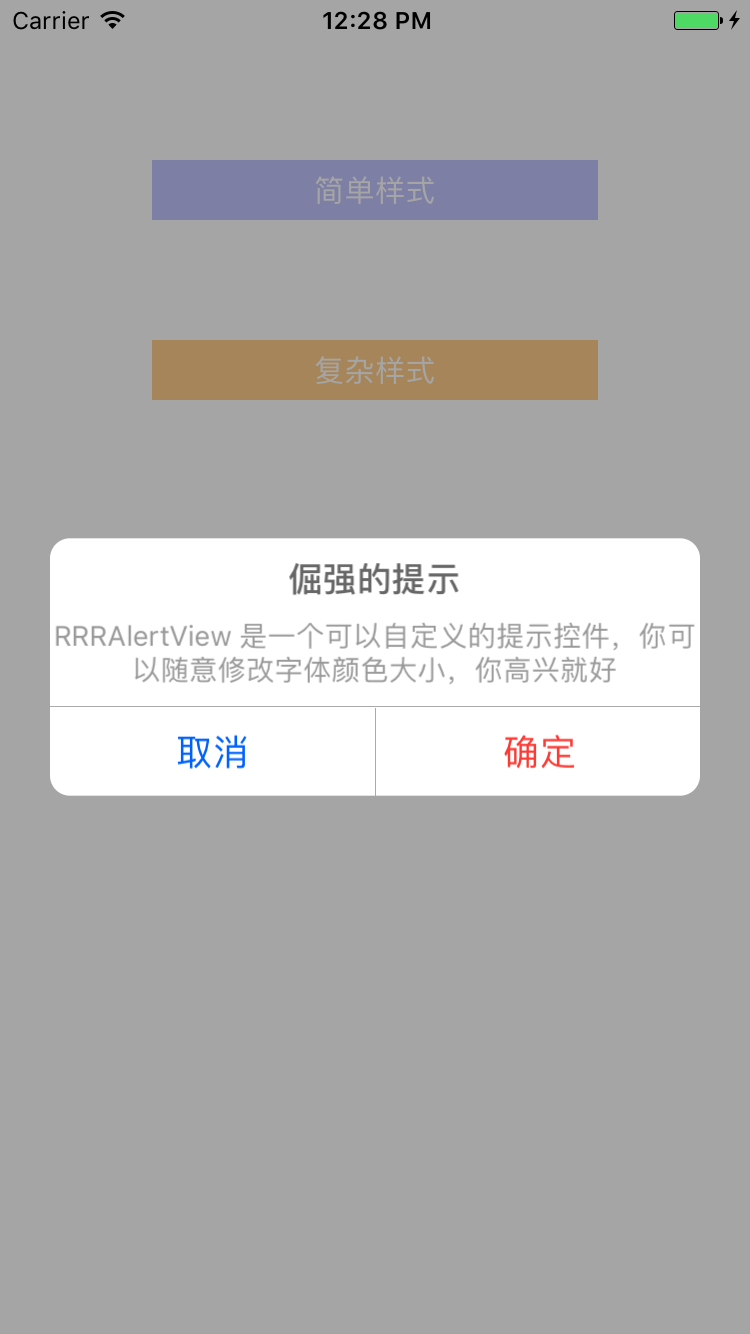
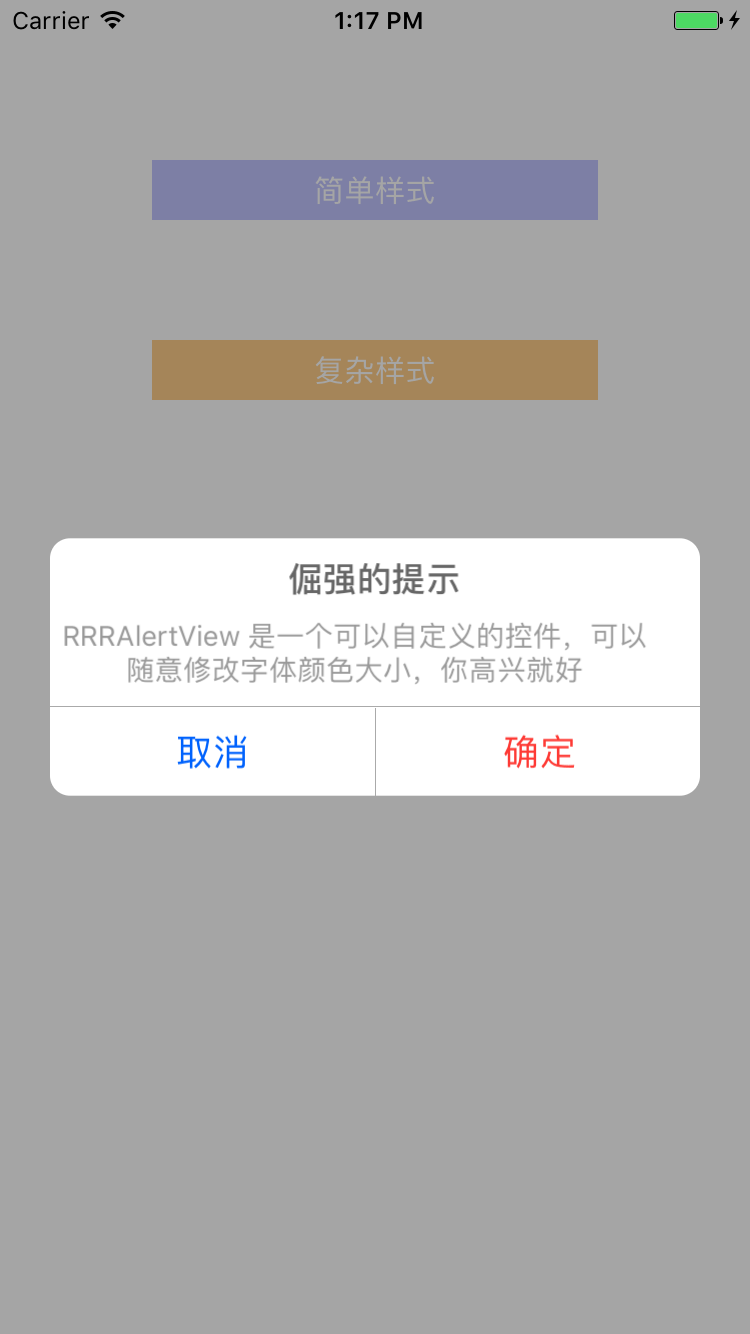
no message

Changed region(s): [[0.0613, 0.461, 0.92, 0.5225], [0.4293, 0.0, 0.5827, 0.0307]]

diff --git a/RRRAlertViewDemo/RRRAlertViewDemo/RRRAlertView/RRRAlertView.m b/RRRAlertViewDemo/RRRAlertViewDemo/RRRAlertView/RRRAlertView.m
@@ -128,6 +128,8 @@ enum tag {
 
     
     CGFloat spaceX = 0.0;
+    spaceX += controlsMargin;
+
     CGFloat spaceY = 0.0;
     spaceY += controlsMargin;
 
@@ -162,12 +164,13 @@ enum tag {
         messageLabel.textColor = _messageColor;
         messageLabel.text = _message;
         
-        CGSize size = [messageLabel boundingRectWithSize:CGSizeMake(SCREEN_WIDTH - margin*2, MAXFLOAT)];
+        CGSize size = [messageLabel boundingRectWithSize:CGSizeMake(SCREEN_WIDTH - margin*2 - controlsMargin*2, MAXFLOAT)];
         messageLabel.frame = CGRectMake(spaceX, spaceY, size.width, size.height);
         messageLabel.textAlignment = NSTextAlignmentCenter;
         messageLabel.numberOfLines = 0;
-        messageLabel.center = CGPointMake((SCREEN_WIDTH - margin*2)/2.0, messageLabel.center.y);
+        messageLabel.center = CGPointMake((SCREEN_WIDTH - margin*2 - controlsMargin*2)/2.0, messageLabel.center.y);
         
+        spaceX -= controlsMargin;
         spaceY += CGRectGetHeight(messageLabel.frame);
         spaceY += controlsMargin;
         height += size.height;
@@ -176,7 +179,7 @@ enum tag {
     
     
     // 横线
-    [self addHorizontalLineWithFram:CGRectMake(0,spaceY, SCREEN_WIDTH - margin*2, lineMargin)];
+    [self addHorizontalLineWithframe:CGRectMake(0,spaceY, SCREEN_WIDTH - margin*2, lineMargin)];
     
     height += 1;
     spaceY += 1;
@@ -186,10 +189,10 @@ enum tag {
     if (_cancelButtonTitle.length > 0 && _otherButtonTitles.count == 1) {
         
         // 取消 ===============================
-        CGRect fram = CGRectMake(spaceX, spaceY,  (SCREEN_WIDTH - margin*2)/2, btnHeight);
-        [self addCancelButtonWithFram:fram];
+        CGRect frame = CGRectMake(spaceX, spaceY,  (SCREEN_WIDTH - margin*2)/2, btnHeight);
+        [self addCancelButtonWithFrame:frame];
        
-        spaceX += fram.size.width;
+        spaceX += frame.size.width;
         
         // 竖线
         UIView *line = [[UIView alloc] init];
@@ -200,7 +203,7 @@ enum tag {
         spaceX += 1;
         
         // 确定 ===============================
-        [self addOtherButtonWithTag:beginTag title:_otherButtonTitles[0] fram:CGRectMake(spaceX, spaceY,  (SCREEN_WIDTH - margin*2)/2, btnHeight)];
+        [self addOtherButtonWithTag:beginTag title:_otherButtonTitles[0] frame:CGRectMake(spaceX, spaceY,  (SCREEN_WIDTH - margin*2)/2, btnHeight)];
         
         height += btnHeight;
 
@@ -210,16 +213,16 @@ enum tag {
     // 取消/确定
     if (_cancelButtonTitle.length == 0 || _otherButtonTitles.count == 0) {
         
-        CGRect fram = CGRectMake(0, spaceY,  (SCREEN_WIDTH - margin*2), btnHeight);
+        CGRect frame = CGRectMake(0, spaceY,  (SCREEN_WIDTH - margin*2), btnHeight);
 
         // 确定 ===============================
         if (_cancelButtonTitle.length == 0) {
-            [self addOtherButtonWithTag:beginTag title:_otherButtonTitles[0] fram:fram];
+            [self addOtherButtonWithTag:beginTag title:_otherButtonTitles[0] frame:frame];
         }
         
         // 取消 ===============================
         if (_otherButtonTitles.count == 0) {
-            [self addCancelButtonWithFram:fram];
+            [self addCancelButtonWithFrame:frame];
         }
         
         height += btnHeight;
@@ -236,21 +239,21 @@ enum tag {
             if (i > 0) {
                 spaceY += btnHeight;
                 // 横线
-                [self addHorizontalLineWithFram:CGRectMake(0,spaceY, SCREEN_WIDTH - margin*2, lineMargin)];
+                [self addHorizontalLineWithframe:CGRectMake(0,spaceY, SCREEN_WIDTH - margin*2, lineMargin)];
                 
             }
             height += btnHeight;
             
-            [self addOtherButtonWithTag:beginTag + i title:_otherButtonTitles[i] fram:CGRectMake(spaceX, spaceY,  (SCREEN_WIDTH - margin*2), btnHeight)];
+            [self addOtherButtonWithTag:beginTag + i title:_otherButtonTitles[i] frame:CGRectMake(spaceX, spaceY,  (SCREEN_WIDTH - margin*2), btnHeight)];
         }
         
         spaceY += btnHeight;
         
         // 横线
-        [self addHorizontalLineWithFram:CGRectMake(0,spaceY, SCREEN_WIDTH - margin*2, lineMargin)];
+        [self addHorizontalLineWithframe:CGRectMake(0,spaceY, SCREEN_WIDTH - margin*2, lineMargin)];
         
         // 取消 ===============================
-        [self addCancelButtonWithFram:CGRectMake(spaceX, spaceY,  (SCREEN_WIDTH - margin*2), btnHeight)];
+        [self addCancelButtonWithFrame:CGRectMake(spaceX, spaceY,  (SCREEN_WIDTH - margin*2), btnHeight)];
 
         height += btnHeight;
     }
@@ -265,11 +268,11 @@ enum tag {
             if (i > 0) {
                 spaceY += btnHeight;
                 // 横线
-                [self addHorizontalLineWithFram:CGRectMake(0,spaceY, SCREEN_WIDTH - margin*2, lineMargin)];
+                [self addHorizontalLineWithframe:CGRectMake(0,spaceY, SCREEN_WIDTH - margin*2, lineMargin)];
             }
             height += btnHeight;
             
-            [self addOtherButtonWithTag:beginTag + i title:_otherButtonTitles[i] fram:CGRectMake(spaceX, spaceY,  (SCREEN_WIDTH - margin*2), btnHeight)];
+            [self addOtherButtonWithTag:beginTag + i title:_otherButtonTitles[i] frame:CGRectMake(spaceX, spaceY,  (SCREEN_WIDTH - margin*2), btnHeight)];
         }
         
         height -= btnHeight;
@@ -282,10 +285,10 @@ enum tag {
 }
 
 #pragma mark - private methods
-- (void)addCancelButtonWithFram:(CGRect)fram
+- (void)addCancelButtonWithFrame:(CGRect)frame
 {
     // 取消 ===============================
-    UIButton *cancelButton = [[UIButton alloc] initWithFrame:fram];
+    UIButton *cancelButton = [[UIButton alloc] initWithFrame:frame];
     [cancelButton setTitle:_cancelButtonTitle forState:UIControlStateNormal];
     [cancelButton setTitleColor:[self hexStringToColor:@"#0062FD"] forState:UIControlStateNormal];
     cancelButton.titleLabel.textAlignment = NSTextAlignmentCenter;
@@ -294,10 +297,10 @@ enum tag {
     [self addSubview:cancelButton];
 }
 
-- (void)addOtherButtonWithTag:(NSInteger )tag title:(NSString *)title fram:(CGRect)fram
+- (void)addOtherButtonWithTag:(NSInteger )tag title:(NSString *)title frame:(CGRect)frame
 {
     // 确定 ===============================
-    UIButton *otherButton = [[UIButton alloc] initWithFrame:fram];
+    UIButton *otherButton = [[UIButton alloc] initWithFrame:frame];
     otherButton.tag = tag;
     [otherButton setTitle:title forState:UIControlStateNormal];
     [otherButton setTitleColor:[self hexStringToColor:@"#FE3A35"] forState:UIControlStateNormal];
@@ -306,10 +309,10 @@ enum tag {
     [self addSubview:otherButton];
 }
 
-- (void)addHorizontalLineWithFram:(CGRect)fram
+- (void)addHorizontalLineWithframe:(CGRect)frame
 {
     // 横线
-    UIView *line = [[UIView alloc] initWithFrame:fram];
+    UIView *line = [[UIView alloc] initWithFrame:frame];
     line.backgroundColor = [UIColor lightGrayColor];
     [self addSubview:line];
 }

diff --git a/RRRAlertViewDemo/RRRAlertViewDemo/ViewController.m b/RRRAlertViewDemo/RRRAlertViewDemo/ViewController.m
@@ -21,7 +21,7 @@
 - (IBAction)simpleType:(id)sender {
     
     // 只有两个item
-    RRRAlertView *alert1 = [[RRRAlertView alloc] initWithTitle:@"倔强的提示" message:@"RRRAlertView 是一个可以自定义的提示控件，你可以随意修改字体颜色大小，你高兴就好" cancelButtonTitle:@"取消" otherButtonTitles:@"确定",nil];
+    RRRAlertView *alert1 = [[RRRAlertView alloc] initWithTitle:@"倔强的提示" message:@"RRRAlertView 是一个可以自定义的控件，可以随意修改字体颜色大小，你高兴就好" cancelButtonTitle:@"取消" otherButtonTitles:@"确定",nil];
     
     // 实现block，等待回调
     alert1.indexBlock = ^(RRRAlertView *alert,NSInteger index) {
@@ -31,7 +31,7 @@
 - (IBAction)complexType:(id)sender {
     
     // 多个item
-    RRRAlertView *alert = [[RRRAlertView alloc] initWithTitle:@"倔强的提示" message:@"RRRAlertView 是一个可以自定义的提示控件，你可以随意修改字体颜色大小，你高兴就好" cancelButtonTitle:@"取消" otherButtonTitles:@"小明",@"小红",@"小兰",nil];
+    RRRAlertView *alert = [[RRRAlertView alloc] initWithTitle:@"倔强的提示" message:@"RRRAlertView 是一个可以自定义的控件，可以随意修改字体颜色大小，你高兴就好" cancelButtonTitle:@"取消" otherButtonTitles:@"小明",@"小红",@"小兰",nil];
     
     // 实现block，等待回调
     alert.indexBlock = ^(RRRAlertView *alert,NSInteger index) {

diff --git a/README.md b/README.md
@@ -9,10 +9,10 @@
 
 ```
 // 只有两个item
-RRRAlertView *alert1 = [[RRRAlertView alloc] initWithTitle:@"这是自定义的alertView" message:@"你可以随意修改字体颜色大小，怎么高兴怎么来" cancelButtonTitle:@"取消" otherButtonTitles:@"确定1",nil];
+RRRAlertView *alert1 = [[RRRAlertView alloc] initWithTitle:@"倔强的提示" message:@"RRRAlertView 是一个可以自定义的控件，可以随意修改字体颜色大小，你高兴就好" cancelButtonTitle:@"取消" otherButtonTitles:@"确定",nil];
 
 alert1.indexBlock = ^(RRRAlertView *alert,NSInteger index) {
-NSLog(@"****点击了 item %ld****",(long)index);
+    NSLog(@"****点击了 item %ld****",(long)index);
 };
 
 ```
@@ -20,10 +20,10 @@ NSLog(@"****点击了 item %ld****",(long)index);
 ```
 
 // 多个item
-RRRAlertView *alert = [[RRRAlertView alloc] initWithTitle:@"这是自定义的alertView" message:@"你可以随意修改字体颜色大小，怎么高兴怎么来" cancelButtonTitle:@"取消" otherButtonTitles:@"确定1",@"确定2",@"确定3",nil];
+RRRAlertView *alert = [[RRRAlertView alloc] initWithTitle:@"倔强的提示" message:@"RRRAlertView 是一个可以自定义的控件，可以随意修改字体颜色大小，你高兴就好" cancelButtonTitle:@"取消" otherButtonTitles:@"小明",@"小红",@"小兰",nil];
 
 alert.indexBlock = ^(RRRAlertView *alert,NSInteger index) {
-NSLog(@"****%ld****",(long)index);
+    NSLog(@"****%ld****",(long)index);
 };
 
 ```
